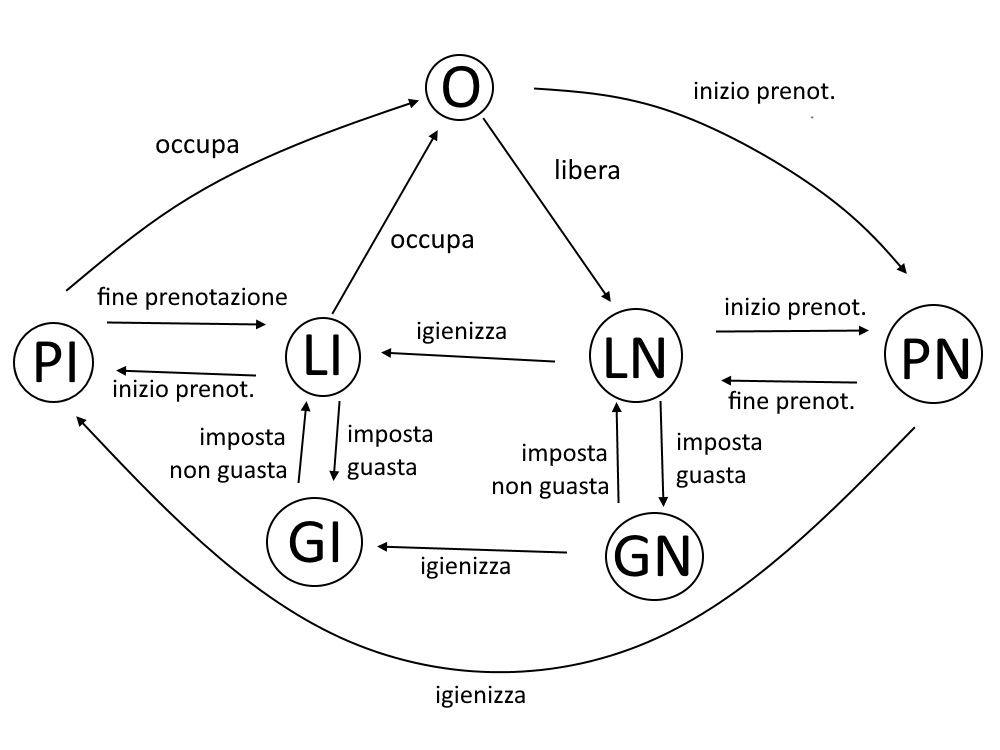
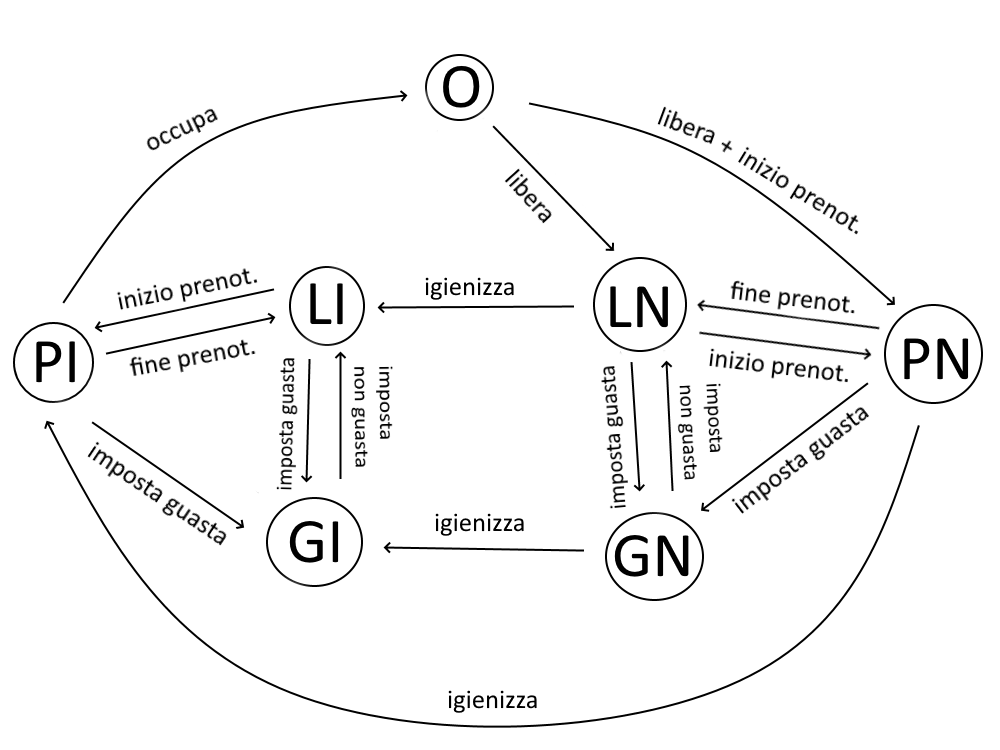
ulteriori correzioni

diff --git a/esterni/AnalisiDeiRequisiti/res/sections/requisiti.tex b/esterni/AnalisiDeiRequisiti/res/sections/requisiti.tex
@@ -81,7 +81,7 @@ I verbali esterni che costituiscono fonte di requisiti sono stati approvati da L
 		\hline
 		R1F19&L'amministratore deve poter modificare il nome di una stanza.	& Capitolato - UC19	\\
 		\hline
-		R1F20&L'amministratore deve poter impostare una stanza come inaccessibile per alcuni giorni, a partire anche da un giorno diverso da quello odierno.	& Capitolato - UC20	\\
+		R1F20&L'amministratore deve poter impostare una stanza come inaccessibile per alcuni giorni, a partire anche da un giorno diverso da quello odierno. Le prenotazioni già effettuate su postazioni di quella stanza nel periodo indicato devono essere disdette e non deve essere possibile effettuarne di nuove, sempre all'interno del periodo.& Capitolato - UC20	\\
 		\hline
 		R1F21&L'amministratore deve poter aggiungere una postazione in una stanza, specificando:
 		\begin{itemize}
@@ -98,7 +98,7 @@ I verbali esterni che costituiscono fonte di requisiti sono stati approvati da L
 		\hline
 		R1F25&L'amministratore deve poter eliminare una postazione.	& Capitolato - UC25	\\
 		\hline
-		R1F26&L'amministratore deve poter modificare i dati e la posizione di una postazione e deve poterla impostare come guasta, indicando un intervallo di giorni, o, se già guasta, deve poter impostarla come libera.	& Capitolato - UC26	\\
+		R1F26&L'amministratore deve poter modificare i dati e la posizione di una postazione e deve poterla impostare come guasta, indicando un intervallo di giorni, o, se già guasta, deve poterla impostare come libera. Le prenotazioni già effettuate su quella postazione in quel periodo devono essere disdette e non deve essere possibile effettuarne di nuove, sempre all'interno del periodo.	& Capitolato - UC26	\\
 		\hline
 		R1F27&L'amministratore deve poter visualizzare una lista delle credenziali di tutti gli utente del sistema.	& Capitolato - UC27	\\
 		\hline
@@ -236,27 +236,28 @@ I verbali esterni che costituiscono fonte di requisiti sono stati approvati da L
 		\hline	
 		R1Q2 &Deve essere prodotto un manuale sviluppatore. & Capitolato\\
 		\hline
-		R1Q3 &Le componenti applicative devono essere correlate da test unitari e d’integrazione. & Capitolato\\
+		R1Q3& Deve essere prodotto un manuale utente.	& Capitolato	\\
 		\hline
-		R1Q4 &Il sistema deve essere testato nella sua interezza tramite test end-to-end. & Capitolato\\
+		R1Q4 &Le componenti applicative devono essere correlate da test unitari e d’integrazione. & Capitolato\\
 		\hline
-		R1Q5 &Devono essere riportati dei report sui test effettuati relativamente all’ottimizzazione dell’applicazione rispetto al consumo della batteria dei cellulari. & Capitolato\\
+		R1Q5 &Il sistema deve essere testato nella sua interezza tramite test end-to-end. & Capitolato\\
 		\hline
-		R2Q6&	Deve essere fornita un'analisi del numero di utenti da supportare e del servizio cloud più adatto per adempiervi, analizzando prezzo, stabilità del servizio ed assistenza (supponendo di disporre di massimo 2 CPU e 1Gi2 per istanza del server).& Capitolato	\\
+		R1Q6 &Devono essere riportati dei report sui test effettuati relativamente all’ottimizzazione dell’applicazione rispetto al consumo della batteria dei cellulari. & Capitolato\\
 		\hline
-		R1Q7&Deve essere fornita una documentazione delle scelte implementative e progettuali accompagnate dalle loro motivazioni.	& Capitolato	\\
+		R2Q7&	Deve essere fornita un'analisi del numero di utenti da supportare e del servizio cloud più adatto per adempiervi, analizzando prezzo, stabilità del servizio ed assistenza (supponendo di disporre di massimo 2 CPU e 1Gi2 per istanza del server).& Capitolato	\\
 		\hline
-		R1Q8	&Deve essere fornita una documentazione dei problemi che rimangono aperti con eventuali proposte di soluzioni.	& Capitolato	\\
+		R1Q8&Deve essere fornita una documentazione delle scelte implementative e progettuali accompagnate dalle loro motivazioni.	& Capitolato	\\
 		\hline
-		R1Q9&Devono essere scritti dei test che abbiamo una copertura di almeno l'80 per cento del codice e deve essere fornito il report della loro esecuzione.	& 	Capitolato \\
+		R1Q9	&Deve essere fornita una documentazione dei problemi che rimangono aperti con eventuali proposte di soluzioni.	& Capitolato	\\
+		\hline
+		R1Q10&Devono essere scritti dei test che abbiamo una copertura di almeno l'80 per cento del codice e deve essere fornito il report della loro esecuzione.	& 	Capitolato \\
 		\hline
 		
-		R1Q10&Devono essere eseguiti dei test che mettano in relazione la precisione del sistema e il consumo della batteria dei cellulari.	& Capitolato - VE\_2020\_12\_18v.1.0.0	\\
+		R1Q11&Devono essere eseguiti dei test che mettano in relazione la precisione del sistema e il consumo della batteria dei cellulari.	& Capitolato - VE\_2020\_12\_18v.1.0.0	\\
 		\hline
-		R1Q11&L’utilizzo del lettore NFC riduce in modo rilevante l’autonomia dei cellulari, l’applicazione è da sviluppare in maniera tale da bilanciare nel miglior modo possibile batteria e scansioni. È richiesto un resoconto delle scelte fatte e dei test effettuati per garantire il miglior rapporto raggiunto.	& Capitolato	\\
+		R1Q12&L’utilizzo del lettore NFC riduce in modo rilevante l’autonomia dei cellulari, l’applicazione è da sviluppare in maniera tale da bilanciare nel miglior modo possibile batteria e scansioni. È richiesto un resoconto delle scelte fatte e dei test effettuati per garantire il miglior rapporto raggiunto.	& Capitolato	\\
 		\hline
-		R1Q12& Deve essere prodotto un manuale utente.	& Capitolato	\\
-		\hline
+		
 		%fine requisiti qualita%
 		
 	\end{longtable}
@@ -326,8 +327,10 @@ R1F5 \newline
 R1F14 \newline
 R1F14.1 \newline
 R1F14.2 \newline
-R1F14.3 \newline
-R1F15 \newline
+R1F14.3
+\\
+\hline
+Capitolato &R1F15 \newline
 R1F16 \newline
 R1F18 \newline
 R1F19 \newline
@@ -368,19 +371,18 @@ R1F72 \newline
 R1F73 \newline
 R1F74 \newline
 R1Q2 \newline
-R1Q3
-\\
-\hline
-Capitolato &R1Q4 \newline
+R1Q3 \newline
+R1Q4 \newline
 R1Q5 \newline
 R1Q6 \newline
 R2Q7 \newline
 R1Q8 \newline
-R1Q9 \newline
-R1Q10 \newline
+R1Q9
+\\
+\hline
+Capitolato &R1Q10 \newline
 R1Q11 \newline
 R1Q12 \newline
-R1Q13 \newline
 R1V1 \newline
 R2V2 \newline
 R1V3 
@@ -1358,11 +1360,6 @@ VE\_2020\_12\_18v.1.0.0
 \hline
 
 R1Q12 &
-Capitolato 
-\\
-\hline
-
-R1Q13 &
 Capitolato 
 \\
 \hline
